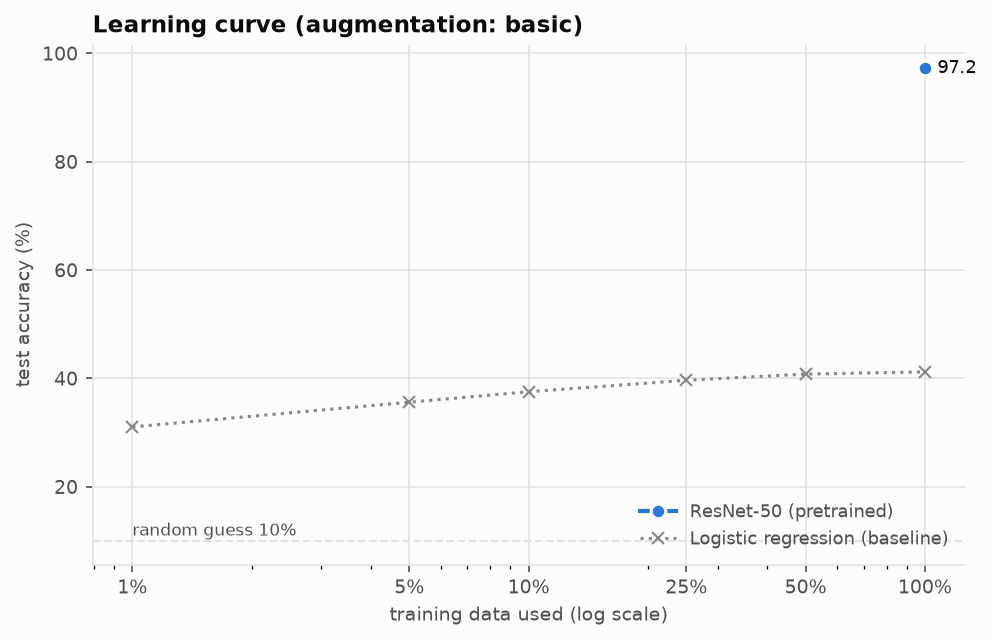
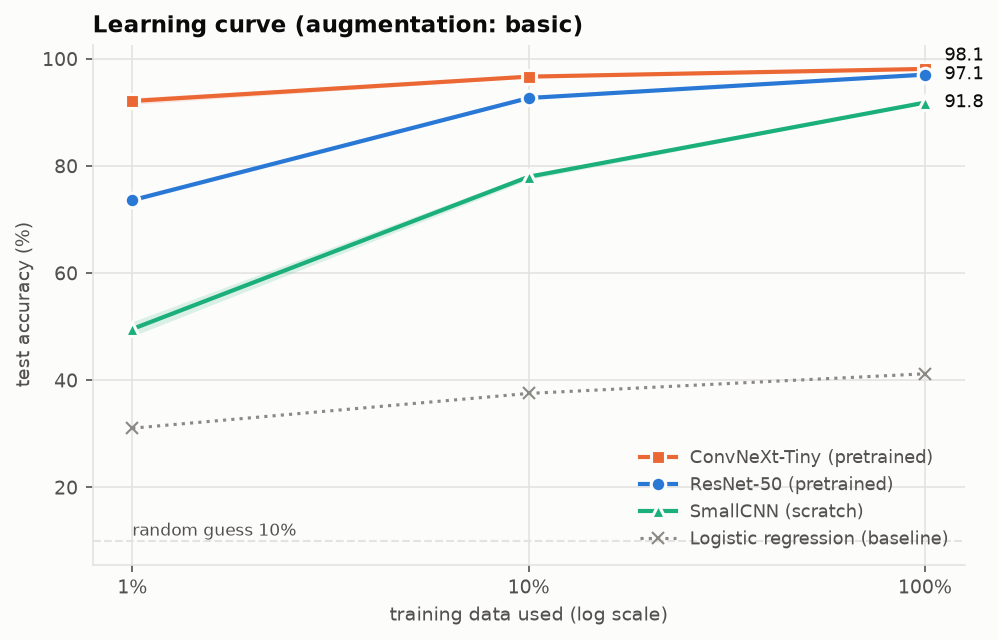
update results and plots

diff --git a/scripts/summarize_results.py b/scripts/summarize_results.py
@@ -26,6 +26,9 @@ MODELS = {
     "small_cnn_scratch": ("SmallCNN (scratch)", "#1baf7a", "^"),
     "vit_small_finetune": ("ViT-S/16 (pretrained)", "#eda100", "D"),
     "small_vit_scratch": ("SmallViT (scratch)", "#e87ba4", "v"),
+    "resnet50_frozen": ("ResNet-50 (frozen backbone)", "#008300", "o"),
+    "convnext_tiny_frozen": ("ConvNeXt-Tiny (frozen backbone)", "#6250d6", "s"),
+    "resnet50_random": ("ResNet-50 (random init)", "#e34948", "o"),
 }
 EXTRA_COLORS = ["#008300", "#6250d6", "#e34948"]
 AUG_ORDER = ["none", "basic", "strong"]
@@ -161,10 +164,12 @@ def plot_training_curves(runs, fig_dir):
 
 
 def plot_learning_curve(table, baseline, fig_dir, augmentation="basic"):
-    data = table[(table["augmentation"] == augmentation) & (~table["freeze_backbone"])]
+    data = table[(table["augmentation"] == augmentation) & (~table["freeze_backbone"])
+                 & (table["experiment"] != "resnet50_random")]
     if data.empty:
         return
     fig, ax = plt.subplots(figsize=(7.5, 4.5))
+    ends = []
     for experiment, group in data.groupby("experiment"):
         group = group.sort_values("train_fraction")
         name, color, marker = style(experiment)
@@ -172,15 +177,24 @@ def plot_learning_curve(table, baseline, fig_dir, augmentation="basic"):
         ax.plot(x, y, color=color, lw=2, marker=marker, ms=7, label=name,
                 markeredgecolor=SURFACE, markeredgewidth=1.5)
         ax.fill_between(x, y - s, y + s, color=color, alpha=0.15, lw=0)
-        ax.annotate(f"{y.iloc[-1]:.1f}", (x.iloc[-1], y.iloc[-1]), xytext=(6, 0),
-                    textcoords="offset points", va="center", fontsize=8.5, color=INK)
+        ends.append([x.iloc[-1], y.iloc[-1], y.iloc[-1]])
+    # spread the end labels so close values don't overlap
+    ends.sort(key=lambda e: e[1])
+    for i in range(1, len(ends)):
+        ends[i][2] = max(ends[i][2], ends[i - 1][2] + 3.5)
+    for x_end, y_end, y_text in ends:
+        ax.annotate(f"{y_end:.1f}", (x_end, y_end), xytext=(x_end * 1.12, y_text),
+                    textcoords="data", va="center", fontsize=8.5, color=INK)
     if baseline is not None:
+        baseline = baseline[baseline["train_fraction"].isin(set(data["train_fraction"]))]
         ax.plot(baseline["train_fraction"] * 100, baseline["test_acc"], color=BASELINE, lw=1.5,
                 ls=":", marker="x", ms=6, label="Logistic regression (baseline)")
     ax.axhline(10, color=GRID, lw=1, ls="--")
     ax.text(1, 11, "random guess 10%", fontsize=8, color=INK_2)
     ax.set_xscale("log")
-    ax.set_xticks([1, 5, 10, 25, 50, 100], ["1%", "5%", "10%", "25%", "50%", "100%"])
+    ticks = sorted(set((data["train_fraction"] * 100).round(6)))
+    ax.set_xticks(ticks, [f"{t:g}%" for t in ticks])
+    ax.minorticks_off()
     setup_axes(ax, f"Learning curve (augmentation: {augmentation})",
                "training data used (log scale)", "test accuracy (%)")
     ax.legend(frameon=False, fontsize=8.5, labelcolor=INK_2, loc="lower right")
@@ -223,24 +237,30 @@ def plot_cost(table, fig_dir, fraction=1.0, augmentation="basic"):
     data = table[(table["train_fraction"] == fraction) & (table["augmentation"] == augmentation)]
     if data.empty:
         return
-    fig, axes = plt.subplots(1, 2, figsize=(10, 3.8), sharey=True)
+    fig, axes = plt.subplots(1, 2, figsize=(10, 4.4), sharey=True)
+    data = data.sort_values("test_acc_mean", ascending=False)
     for ax, column, xlabel in [(axes[0], "train_time_min", "training time (min)"),
-                               (axes[1], "params_m", "parameters (millions)")]:
+                               (axes[1], "trainable_m", "trainable parameters (millions, log scale)")]:
         for _, r in data.iterrows():
             name, color, marker = style(r["experiment"])
             ax.errorbar(r[column], r["test_acc_mean"], yerr=r["test_acc_std"], fmt=marker,
-                        color=color, ms=9, mec=SURFACE, mew=1.5, ecolor=INK_2, capsize=3)
-            ax.annotate(name.split(" (")[0], (r[column], r["test_acc_mean"]), xytext=(7, 5),
-                        textcoords="offset points", fontsize=8.5, color=INK)
+                        color=color, ms=9, mec=SURFACE, mew=1.5, ecolor=INK_2, capsize=3,
+                        label=name)
         setup_axes(ax, xlabel=xlabel)
+    axes[1].set_xscale("log")
+    axes[1].xaxis.set_major_formatter(plt.FuncFormatter(lambda v, _: f"{v:g}"))
     axes[0].set_ylabel("test accuracy (%)", color=INK_2, fontsize=9)
+    handles, labels = axes[0].get_legend_handles_labels()
+    fig.legend(handles, labels, loc="lower center", ncol=3, frameon=False, fontsize=8.5,
+               labelcolor=INK_2, bbox_to_anchor=(0.5, -0.02))
+    fig.subplots_adjust(bottom=0.27)
     fig.suptitle(f"Accuracy vs compute cost · {fraction * 100:g}% data · aug {augmentation}",
                  x=0.01, ha="left", fontsize=11, color=INK, fontweight="bold")
     save(fig, fig_dir / f"accuracy_vs_cost_frac{fraction:g}_{augmentation}.png")
 
 
 def plot_augmentation(table, fig_dir):
-    data = table[~table["freeze_backbone"]]
+    data = table[~table["freeze_backbone"] & (table["experiment"] != "resnet50_random")]
     if data["augmentation"].nunique() < 2:
         return
     for fraction, frac_data in data.groupby("train_fraction"):
@@ -264,10 +284,13 @@ def plot_augmentation(table, fig_dir):
                        label=aug if j == 0 else None)
                 ax.text(x, r["test_acc_mean"] + r["test_acc_std"] + 0.5, f"{r['test_acc_mean']:.1f}",
                         ha="center", fontsize=7.5, color=INK)
-        ax.set_xticks(range(len(experiments)), [style(e)[0] for e in experiments], fontsize=8.5)
+        ax.set_xticks(range(len(experiments)),
+                      [style(e)[0].replace(" (", "\n(") for e in experiments], fontsize=8.5)
+        ax.set_ylim(0, 108)
         setup_axes(ax, f"Augmentation study · {fraction * 100:g}% data",
                    ylabel="test accuracy (%)")
-        legend = ax.legend(title="augmentation", frameon=False, fontsize=8.5)
+        legend = ax.legend(title="augmentation", frameon=False, fontsize=8.5, ncol=3,
+                           loc="upper center", bbox_to_anchor=(0.5, -0.16))
         for patch in legend.get_patches():
             patch.set_facecolor(BASELINE)
         save(fig, fig_dir / f"augmentation_frac{fraction:g}.png")
@@ -305,6 +328,126 @@ def plot_confusion_matrices(runs, fig_dir, fraction=1.0, augmentation="basic"):
         save(fig, fig_dir / f"confusion_{experiment}_frac{fraction:g}_{augmentation}.png")
 
 
+def summarise_cifar10c(results, fig_dir):
+    files = sorted((results / "cifar10c").glob("*.json"))
+    if not files:
+        return
+    data = [json.loads(f.read_text()) for f in files]
+    rows = []
+    for d in data:
+        row = {"experiment": d["experiment"], "run": d["run"], "clean_acc": 100 * d["clean_acc"],
+               "mean_corrupted_acc": 100 * d["mean_corrupted_acc"],
+               "relative_drop_pct": 100 * d["relative_drop"]}
+        row.update({f"{g}_acc": 100 * v for g, v in d["by_group"].items()})
+        row.update({f"severity{s}_acc": 100 * v for s, v in d["by_severity"].items()})
+        row.update({f"{c}_acc": 100 * v for c, v in d["by_corruption"].items()})
+        rows.append(row)
+    table = pd.DataFrame(rows).round(2)
+    table.to_csv(results / "cifar10c_summary.csv", index=False)
+    lines = ["| Model | Run | Clean | Corrupted mean | Drop (rel. %) | Noise | Blur | Weather | Digital |",
+             "|---|---|---|---|---|---|---|---|---|"]
+    for _, r in table.iterrows():
+        lines.append(f"| {style(r['experiment'])[0]} | {r['run']} | {r['clean_acc']:.2f} | "
+                     f"{r['mean_corrupted_acc']:.2f} | {r['relative_drop_pct']:.1f} | {r['noise_acc']:.2f} | "
+                     f"{r['blur_acc']:.2f} | {r['weather_acc']:.2f} | {r['digital_acc']:.2f} |")
+    (results / "cifar10c_summary.md").write_text("\n".join(lines) + "\n", encoding="utf-8")
+    print(f"saved {results / 'cifar10c_summary.md'}")
+
+    by_model = {}
+    for d in data:
+        by_model.setdefault(d["experiment"], []).append(d)
+
+    fig, ax = plt.subplots(figsize=(7.5, 4.3))
+    for experiment, runs in by_model.items():
+        name, color, marker = style(experiment)
+        ys = np.array([[100 * r["clean_acc"]] + [100 * r["by_severity"][str(s)] for s in range(1, 6)]
+                       for r in runs])
+        mean = ys.mean(axis=0)
+        ax.plot(range(6), mean, color=color, lw=2, marker=marker, ms=7, mec=SURFACE, mew=1.5,
+                label=f"{name} (n={len(runs)})")
+        ax.annotate(f"{mean[-1]:.1f}", (5, mean[-1]), xytext=(6, 0), textcoords="offset points",
+                    va="center", fontsize=8.5, color=INK)
+    ax.set_xticks(range(6), ["clean", "1", "2", "3", "4", "5"])
+    setup_axes(ax, "CIFAR-10-C: accuracy vs corruption severity (mean of 19 corruptions)",
+               "severity", "accuracy (%)")
+    ax.legend(frameon=False, fontsize=8.5, labelcolor=INK_2)
+    save(fig, fig_dir / "cifar10c_severity.png")
+
+    groups = ["noise", "blur", "weather", "digital"]
+    fig, ax = plt.subplots(figsize=(7.5, 4))
+    experiments = list(by_model)
+    width = 0.8 / max(1, len(experiments))
+    for j, experiment in enumerate(experiments):
+        name, color, _ = style(experiment)
+        values = [np.mean([100 * r["by_group"][g] for r in by_model[experiment]]) for g in groups]
+        x = np.arange(len(groups)) + (j - (len(experiments) - 1) / 2) * width
+        ax.bar(x, values, width * 0.92, color=color, edgecolor=SURFACE, label=name)
+        for xi, v in zip(x, values):
+            ax.text(xi, v + 0.8, f"{v:.0f}", ha="center", fontsize=7.5, color=INK)
+    ax.set_xticks(range(len(groups)), groups)
+    setup_axes(ax, "CIFAR-10-C: accuracy per corruption group (mean of severities 1-5)",
+               ylabel="accuracy (%)")
+    ax.set_ylim(0, 105)
+    ax.legend(frameon=False, fontsize=8.5, labelcolor=INK_2, loc="upper center",
+              bbox_to_anchor=(0.5, -0.1), ncol=len(experiments))
+    save(fig, fig_dir / "cifar10c_groups.png")
+
+    blur = ["defocus_blur", "glass_blur", "motion_blur", "zoom_blur", "gaussian_blur"]
+    fig, axes = plt.subplots(1, len(blur), figsize=(13, 3.2), sharey=True)
+    for ax, corruption in zip(axes, blur):
+        for experiment, runs in by_model.items():
+            name, color, marker = style(experiment)
+            ys = np.mean([[100 * r["clean_acc"]] + [100 * r["by_corruption_severity"][f"{corruption}/{s}"]
+                                                     for s in range(1, 6)] for r in runs], axis=0)
+            ax.plot(range(6), ys, color=color, lw=2, marker=marker, ms=5, label=name)
+        ax.set_xticks(range(6), ["c", "1", "2", "3", "4", "5"])
+        setup_axes(ax, corruption.replace("_", " "), "severity")
+    axes[0].set_ylabel("accuracy (%)", color=INK_2, fontsize=9)
+    fig.suptitle("CIFAR-10-C blur corruptions (c = clean)", x=0.01, ha="left", fontsize=11,
+                 color=INK, fontweight="bold")
+    fig.tight_layout()
+    handles, labels = axes[0].get_legend_handles_labels()
+    fig.legend(handles, labels, frameon=False, fontsize=8.5, labelcolor=INK_2, loc="upper center",
+               bbox_to_anchor=(0.5, 0.0), ncol=len(labels))
+    save(fig, fig_dir / "cifar10c_blur.png")
+
+
+def plot_ablation(table, fig_dir):
+    pairs = [("resnet50_finetune", "ResNet-50 full fine-tune"),
+             ("resnet50_frozen", "ResNet-50 frozen backbone"),
+             ("resnet50_random", "ResNet-50 random init"),
+             ("convnext_tiny_finetune", "ConvNeXt-Tiny full fine-tune"),
+             ("convnext_tiny_frozen", "ConvNeXt-Tiny frozen backbone")]
+    data = table[(table["augmentation"] == "basic") & table["experiment"].isin([p[0] for p in pairs])]
+    fractions = sorted(set(data["train_fraction"]) & {0.1, 1.0})
+    if data["experiment"].nunique() < 2 or not fractions:
+        return
+    fig, axes = plt.subplots(1, len(fractions), figsize=(6 * len(fractions), 3.6), squeeze=False)
+    for ax, fraction in zip(axes[0], fractions):
+        labels, values, errors, colors = [], [], [], []
+        for experiment, label in pairs:
+            row = data[(data["experiment"] == experiment) & (data["train_fraction"] == fraction)]
+            if row.empty:
+                continue
+            r = row.iloc[0]
+            labels.append(f"{label} (n={r['n_seeds']})")
+            values.append(r["test_acc_mean"]), errors.append(r["test_acc_std"])
+            colors.append(style(experiment)[1])
+        y = np.arange(len(labels))[::-1]
+        ax.barh(y, values, height=0.6, color=colors, xerr=errors,
+                error_kw=dict(ecolor=INK_2, lw=1, capsize=3))
+        for yi, v, e in zip(y, values, errors):
+            ax.text(v + e + 1, yi, f"{v:.1f}", va="center", fontsize=8.5, color=INK)
+        ax.set_yticks(y, labels, fontsize=8.5)
+        ax.set_xlim(0, 112)
+        setup_axes(ax, f"{fraction * 100:g}% data", "test accuracy (%)")
+        ax.grid(axis="y", visible=False)
+    fig.suptitle("Ablation: pretraining and fine-tuning", x=0.01, ha="left", fontsize=11,
+                 color=INK, fontweight="bold")
+    fig.tight_layout()
+    save(fig, fig_dir / "ablation.png")
+
+
 def main():
     args = parse_args()
     results = Path(args.results)
@@ -330,7 +473,9 @@ def main():
     plot_model_comparison(table, baseline, fig_dir)
     plot_cost(table, fig_dir)
     plot_augmentation(table, fig_dir)
+    plot_ablation(table, fig_dir)
     plot_confusion_matrices(runs, fig_dir)
+    summarise_cifar10c(results, fig_dir)
 
 
 if __name__ == "__main__":

diff --git a/results/summary.md b/results/summary.md
@@ -1,3 +1,23 @@
 | Model | Fraction | Aug | Seeds | Test acc (%) | Macro-F1 (%) | Params (M) | Train time (min) | Peak GPU (GB) |
 |---|---|---|---|---|---|---|---|---|
-| ResNet-50 (pretrained) | 1 | basic | 1 | 97.22 | 97.22 | 23.53 | 37.7 | 1.68 |
+| ConvNeXt-Tiny (pretrained) | 0.01 | basic | 3 | 92.14 ± 0.61 | 92.13 ± 0.62 | 27.83 | 3.5 | 2.26 |
+| ConvNeXt-Tiny (pretrained) | 0.1 | basic | 3 | 96.69 ± 0.19 | 96.68 ± 0.20 | 27.83 | 7.5 | 2.26 |
+| ConvNeXt-Tiny (pretrained) | 1 | basic | 3 | 98.13 ± 0.09 | 98.13 ± 0.09 | 27.83 | 42.4 | 2.26 |
+| ConvNeXt-Tiny (pretrained) | 0.1 | none | 3 | 96.35 ± 0.12 | 96.35 ± 0.12 | 27.83 | 6.8 | 2.26 |
+| ConvNeXt-Tiny (pretrained) | 0.1 | strong | 3 | 96.68 ± 0.22 | 96.68 ± 0.21 | 27.83 | 6.8 | 2.26 |
+| ConvNeXt-Tiny (frozen backbone) [frozen] | 0.1 | basic | 3 | 91.94 ± 0.12 | 91.92 ± 0.12 | 27.83 | 4.2 | 0.39 |
+| ConvNeXt-Tiny (frozen backbone) [frozen] | 1 | basic | 2 | 93.93 ± 0.04 | 93.92 ± 0.05 | 27.83 | 16.5 | 0.39 |
+| ResNet-50 (pretrained) | 0.01 | basic | 3 | 73.62 ± 0.35 | 73.44 ± 0.31 | 23.53 | 3.3 | 1.69 |
+| ResNet-50 (pretrained) | 0.1 | basic | 3 | 92.70 ± 0.25 | 92.68 ± 0.26 | 23.53 | 6.3 | 1.69 |
+| ResNet-50 (pretrained) | 1 | basic | 3 | 97.06 ± 0.14 | 97.06 ± 0.14 | 23.53 | 39.8 | 1.69 |
+| ResNet-50 (pretrained) | 0.1 | none | 3 | 92.12 ± 0.35 | 92.11 ± 0.35 | 23.53 | 6.0 | 1.69 |
+| ResNet-50 (pretrained) | 0.1 | strong | 3 | 92.81 ± 0.21 | 92.78 ± 0.22 | 23.53 | 6.0 | 1.69 |
+| ResNet-50 (frozen backbone) [frozen] | 0.1 | basic | 3 | 88.04 ± 0.17 | 87.98 ± 0.19 | 23.53 | 3.8 | 0.43 |
+| ResNet-50 (frozen backbone) [frozen] | 1 | basic | 2 | 91.72 ± 0.09 | 91.70 ± 0.10 | 23.53 | 16.0 | 0.43 |
+| ResNet-50 (random init) | 0.1 | basic | 3 | 56.57 ± 2.14 | 56.04 ± 2.15 | 23.53 | 6.9 | 1.68 |
+| ResNet-50 (random init) | 1 | basic | 2 | 85.47 ± 0.06 | 85.42 ± 0.01 | 23.53 | 39.4 | 1.68 |
+| SmallCNN (scratch) | 0.01 | basic | 3 | 49.57 ± 1.35 | 49.65 ± 1.28 | 1.15 | 2.2 | 0.08 |
+| SmallCNN (scratch) | 0.1 | basic | 3 | 77.99 ± 0.52 | 77.95 ± 0.53 | 1.15 | 3.5 | 0.08 |
+| SmallCNN (scratch) | 1 | basic | 3 | 91.84 ± 0.13 | 91.82 ± 0.12 | 1.15 | 16.7 | 0.08 |
+| SmallCNN (scratch) | 0.1 | none | 3 | 71.77 ± 0.75 | 71.69 ± 0.76 | 1.15 | 3.1 | 0.08 |
+| SmallCNN (scratch) | 0.1 | strong | 3 | 79.73 ± 0.47 | 79.67 ± 0.49 | 1.15 | 3.3 | 0.08 |
